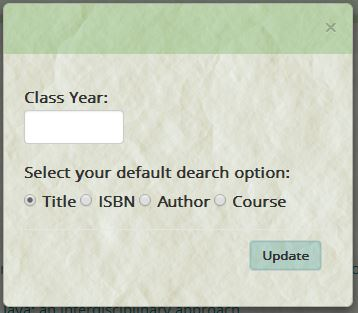
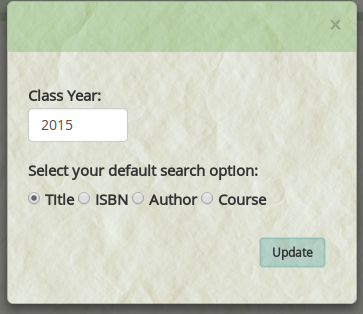
done with product page

diff --git a/webpages/product_index.html b/webpages/product_index.html
@@ -38,6 +38,7 @@ $(function () {
  		<img class="big-shot" src="/static/home.JPG" alt="tex homepage">
  	</div>
   	<br>
+  	<br>
 	<div class="panel-group" id="accordion">
 	  <div class="panel panel-default">
 	    <div class="panel-heading">
@@ -156,31 +157,25 @@ $(function () {
 	  		<li class="media">
 			  	<img class="pull-left md-shot" src="/static/outbidemail.JPG" alt="tex book page">
 			    	<div class="media-body md-vert-center">
-			          	<h3> Activity Notifications: When events directly concerning you occur, you will receive
-			          		an email with the important details.
+			          	<h3> Activity Notifications: When events occur that directly concern you, you will receive
+			          		an email with all the important details.
 			          	</h3>
 			        </div>
 			</li>
+			<li class="media">
+			  	<img class="pull-right sm-shot" src="/static/profile.png" alt="tex follow">
+			    	<div class="media-body lg-vert-center">
+			          	<h3> Customize your book-searching experience!  Change your profile settings to search by
+			          		your preferred field by default.
+			          	</h3>
+			        </div>
+			</li>
+			<br />
 	  	</ul>
 			</div>
 		</div>
 	</div>
-
-
-
-
-	<div>
-    <ul>
-      <li>Follow a book that isn't currently offered or is too expensive right now.</li>
-    </ul>
-  </div>
-  <div class="col-md-4">
-    <h2>Miscellaneous</h2>
-    <ul>
-      <li>Stay in the loop: receive real-time notifications </li>
-      <li>Add a new book to the site simply by searching by ISBN! (ISBN 10 and 13 supported)</li>
-    </ul>
-  </div>
+</div>
 {% endblock body %}
 {% block footer %}
 {% endblock footer %}

diff --git a/webpages/css/style.css b/webpages/css/style.css
@@ -358,7 +358,10 @@ a:hover {color: rgba(74, 160, 44,.6);}
 	width: 65%;
 	height:65%;
 }
-
+.sm-shot{
+	width: 40;
+	height:40%;
+}
 .lg-vert-center{
 	margin-top: 13%;
 }
